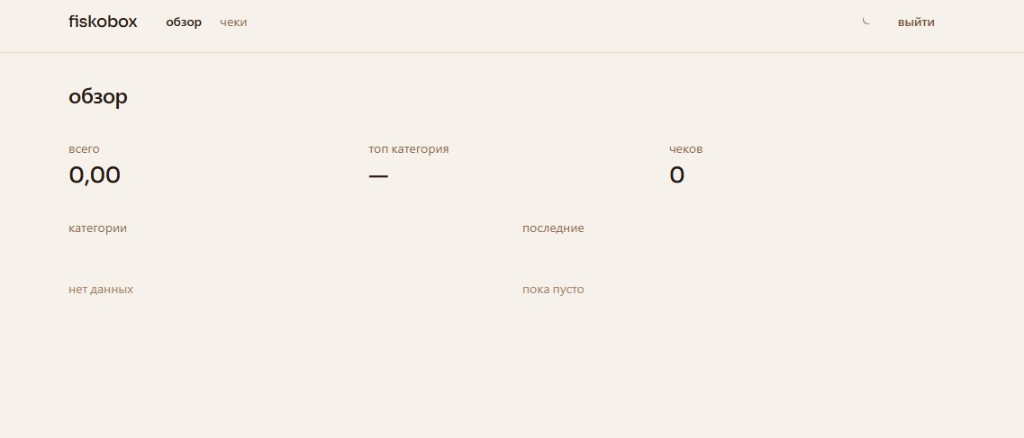
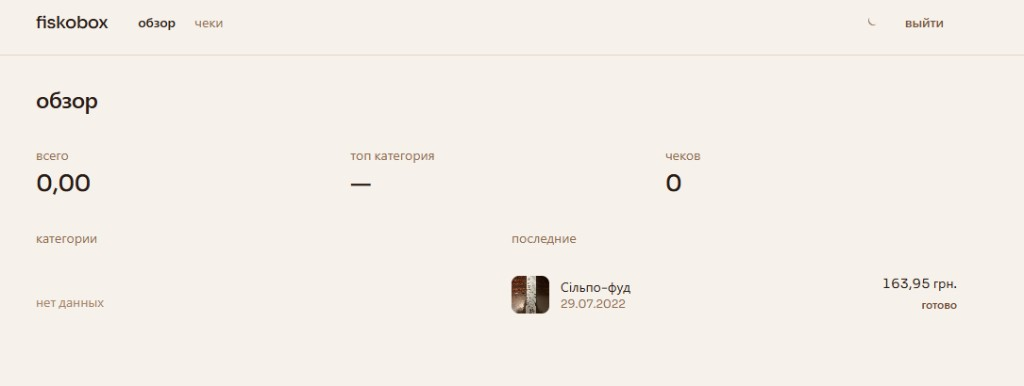
fix(analytics): include all receipts in overview summary

diff --git a/frontend/src/features/dashboard/DashboardPage.tsx b/frontend/src/features/dashboard/DashboardPage.tsx
@@ -9,7 +9,7 @@ import { useDocuments } from "@/hooks/useDocuments";
 import { useSummary } from "@/hooks/useSummary";
 
 export function DashboardPage() {
-  const { data: summary, loading } = useSummary("month");
+  const { data: summary, loading } = useSummary("all");
   const { data: documents, reload } = useDocuments({ limit: 5, offset: 0 });
   const [editId, setEditId] = useState<number | null>(null);
 

diff --git a/backend/src/backend/repositories/analyticsrepository.py b/backend/src/backend/repositories/analyticsrepository.py
@@ -6,18 +6,20 @@ from sqlalchemy.ext.asyncio import AsyncSession
 
 
 async def summary_by_category(
-    session: AsyncSession, user_id: int, start: date
+    session: AsyncSession, user_id: int, start: date | None
 ) -> list[tuple[str | None, object, int]]:
     period = func.coalesce(Receipt.purchase_date, cast(Document.created_at, Date))
+    filters = [
+        Document.user_id == user_id,
+        Receipt.amount.is_not(None),
+    ]
+    if start is not None:
+        filters.append(period >= start)
 
     statement = (
         select(Receipt.category, func.sum(Receipt.amount), func.count())
         .join(Document, Receipt.document_id == Document.id)
-        .where(
-            Document.user_id == user_id,
-            Receipt.amount.is_not(None),
-            period >= start,
-        )
+        .where(*filters)
         .group_by(Receipt.category)
     )
 

diff --git a/backend/src/backend/api/routes/analytics.py b/backend/src/backend/api/routes/analytics.py
@@ -15,7 +15,7 @@ router = APIRouter()
 
 @router.get("/summary", response_model=SummaryOut)
 async def summary(
-    period: str = Query("month", pattern="^(week|month|year)$"),
+    period: str = Query("all", pattern="^(week|month|year|all)$"),
     user: User = Depends(get_current_user),
     session: AsyncSession = Depends(get_session),
 ) -> SummaryOut:

diff --git a/backend/src/backend/services/period.py b/backend/src/backend/services/period.py
@@ -1,8 +1,10 @@
 from datetime import date, timedelta
 
 
-def period_start(period: str) -> date:
+def period_start(period: str) -> date | None:
     today = date.today()
+    if period == "all":
+        return None
     if period == "week":
         return today - timedelta(days=today.weekday())
     if period == "year":

diff --git a/README.md b/README.md
@@ -24,7 +24,7 @@ One-time code from Telegram (`/link`) — no passwords.
 
 ### Overview
 
-Monthly total, top category, receipt count, category breakdown, and recent receipts.
+Total, top category, receipt count, category breakdown, and recent receipts.
 
 ![fiskobox overview](docs/dashboard.png)
 
@@ -33,6 +33,12 @@ Monthly total, top category, receipt count, category breakdown, and recent recei
 Filter by status, category, and date range. Edit or delete recognized fields when needed.
 
 ![fiskobox receipts](docs/documents.png)
+
+### Edit receipt
+
+Review the scan and correct merchant, category, amount, currency, or date.
+
+![fiskobox edit receipt](docs/edit.png)
 
 ---
 
